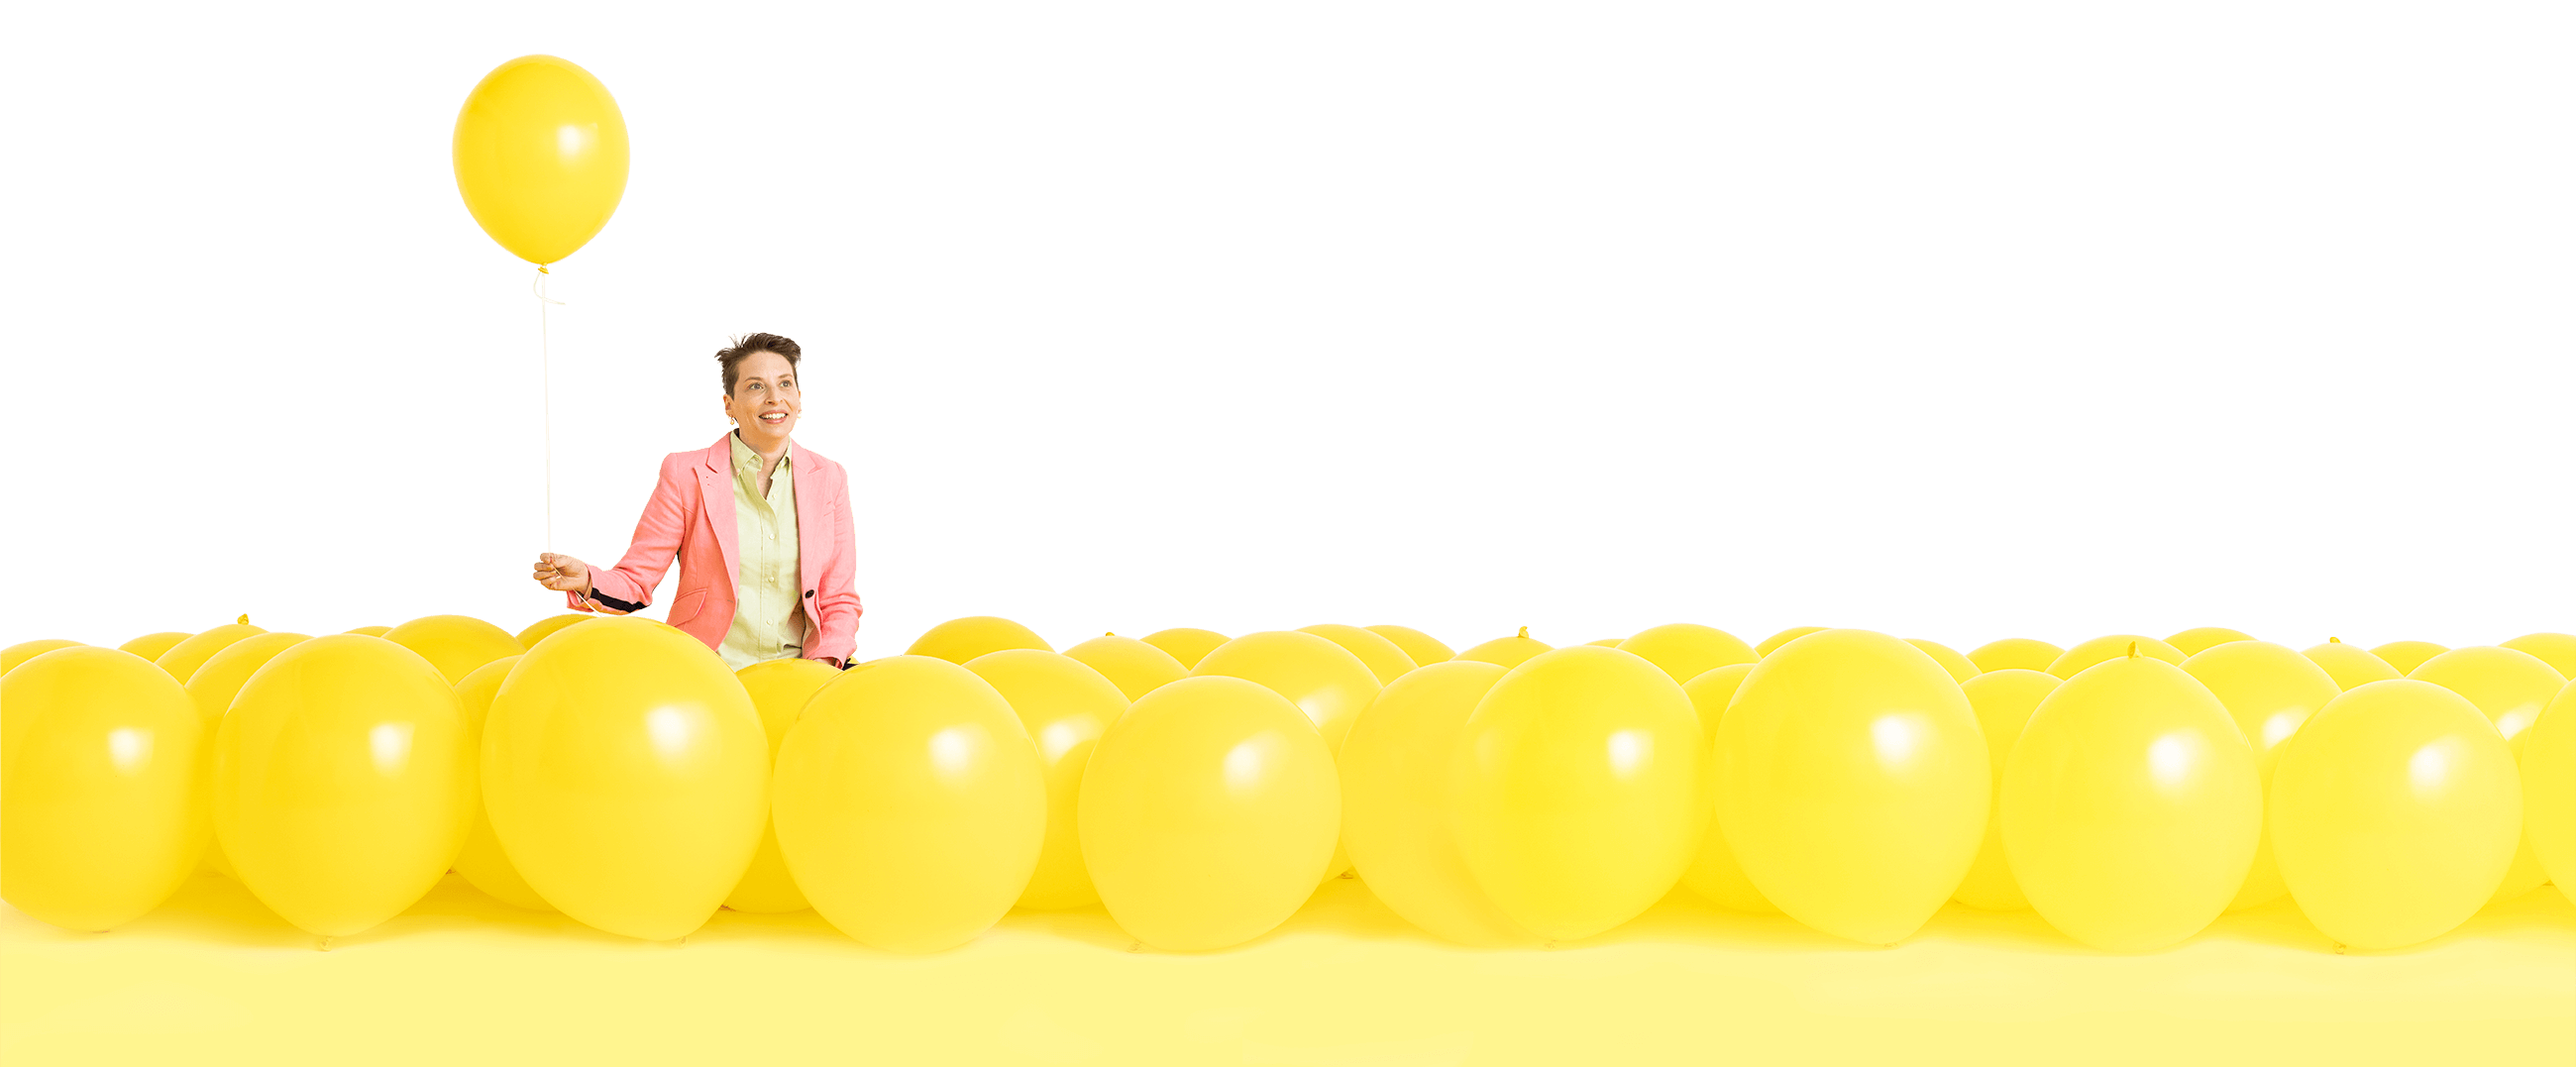
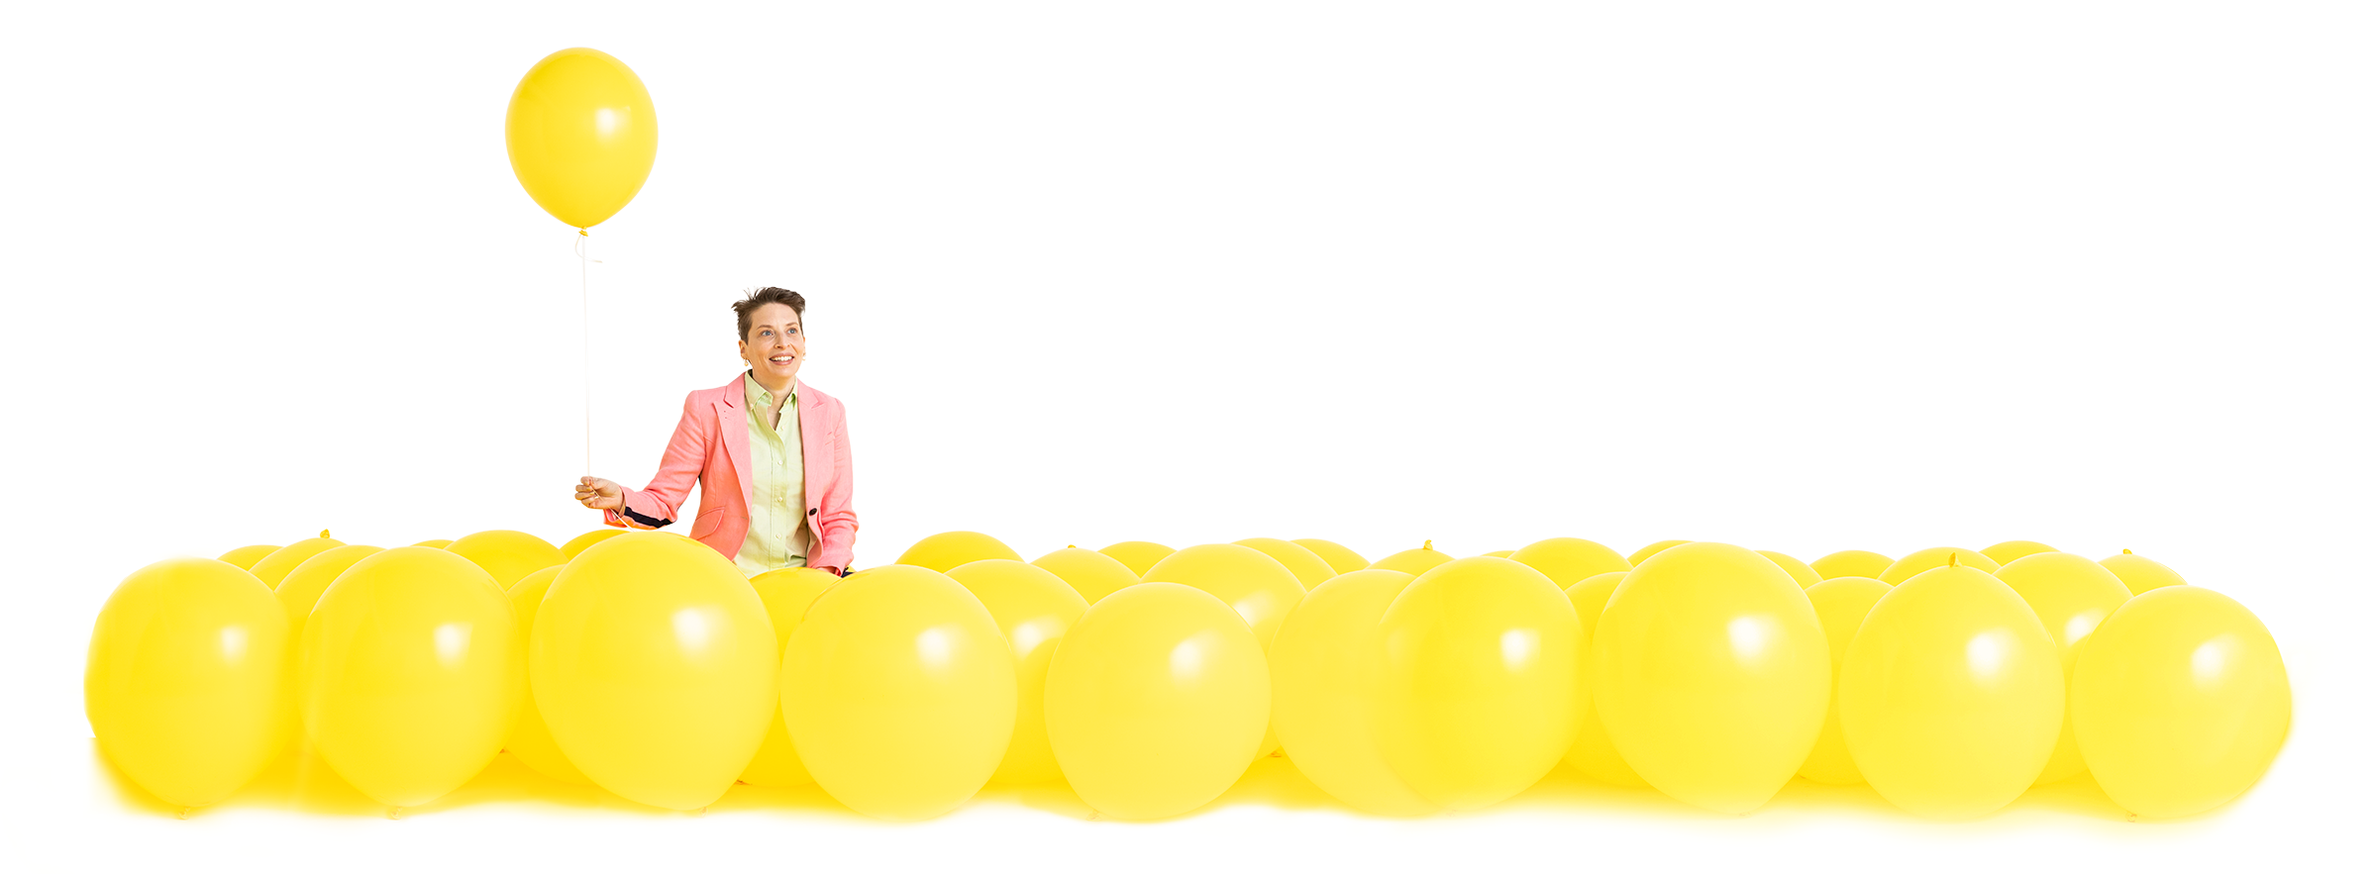
Fix the scaling on the about image

diff --git a/css/style.css b/css/style.css
@@ -473,11 +473,19 @@ nav a:hover { color: #F9BAC0; }
 }
 
 .about-hero {
-  margin: -100px 0 0;
+  margin: -100px 0 0 -50px;
   max-width: 200% !important;
   position: relative;
   width: 200%;
   z-index: -1;
+}
+.about-yellow-bar {
+  background: #FFF58F;
+  height: 20vw;
+  position: relative;
+  margin-top: -14vw;
+  width: 100%;
+  z-index: -2;
 }
 
 .services-page {
@@ -743,6 +751,11 @@ nav a:hover { color: #F9BAC0; }
     margin: -350px 0 0;
     width:  100%;
   }
+  .about-yellow-bar {
+    height: 12vw;
+    margin-top: -7vw;
+    max-height: 150px;
+  }
 
   .services-hero {
     margin-top: -50%;
@@ -793,11 +806,27 @@ nav a:hover { color: #F9BAC0; }
 }
 
 @media (min-width: 1440px) {
+
+  body {
+    overflow-x: hidden;
+  }
+
   .home-intro h1 {
     font-size: 180px;
   }
 
   .burger-balloon {
     right:  calc((100% - 1440px) / 2 + 10px)
+  }
+
+  .main-page {
+    overflow-x: visible;
+  }
+
+  .about-yellow-bar {
+    height: 150px;
+    margin-left: calc(-50vw + 50%);
+    margin-top: -100px;
+    width: 100vw;
   }
 }

diff --git a/about.html b/about.html
@@ -13,4 +13,6 @@ intro: |
 
   I also like alliteration, Gray’s Papaya hotdogs, raccoon videos, and climbing mountains. I live on the westside with my husband Ryan and our Miniature Australian Shepherd Twister.
 ---
+
 <img src="img/me_1.png" class="about-hero" width="100%" height="auto">
+<div class="about-yellow-bar"></div>
